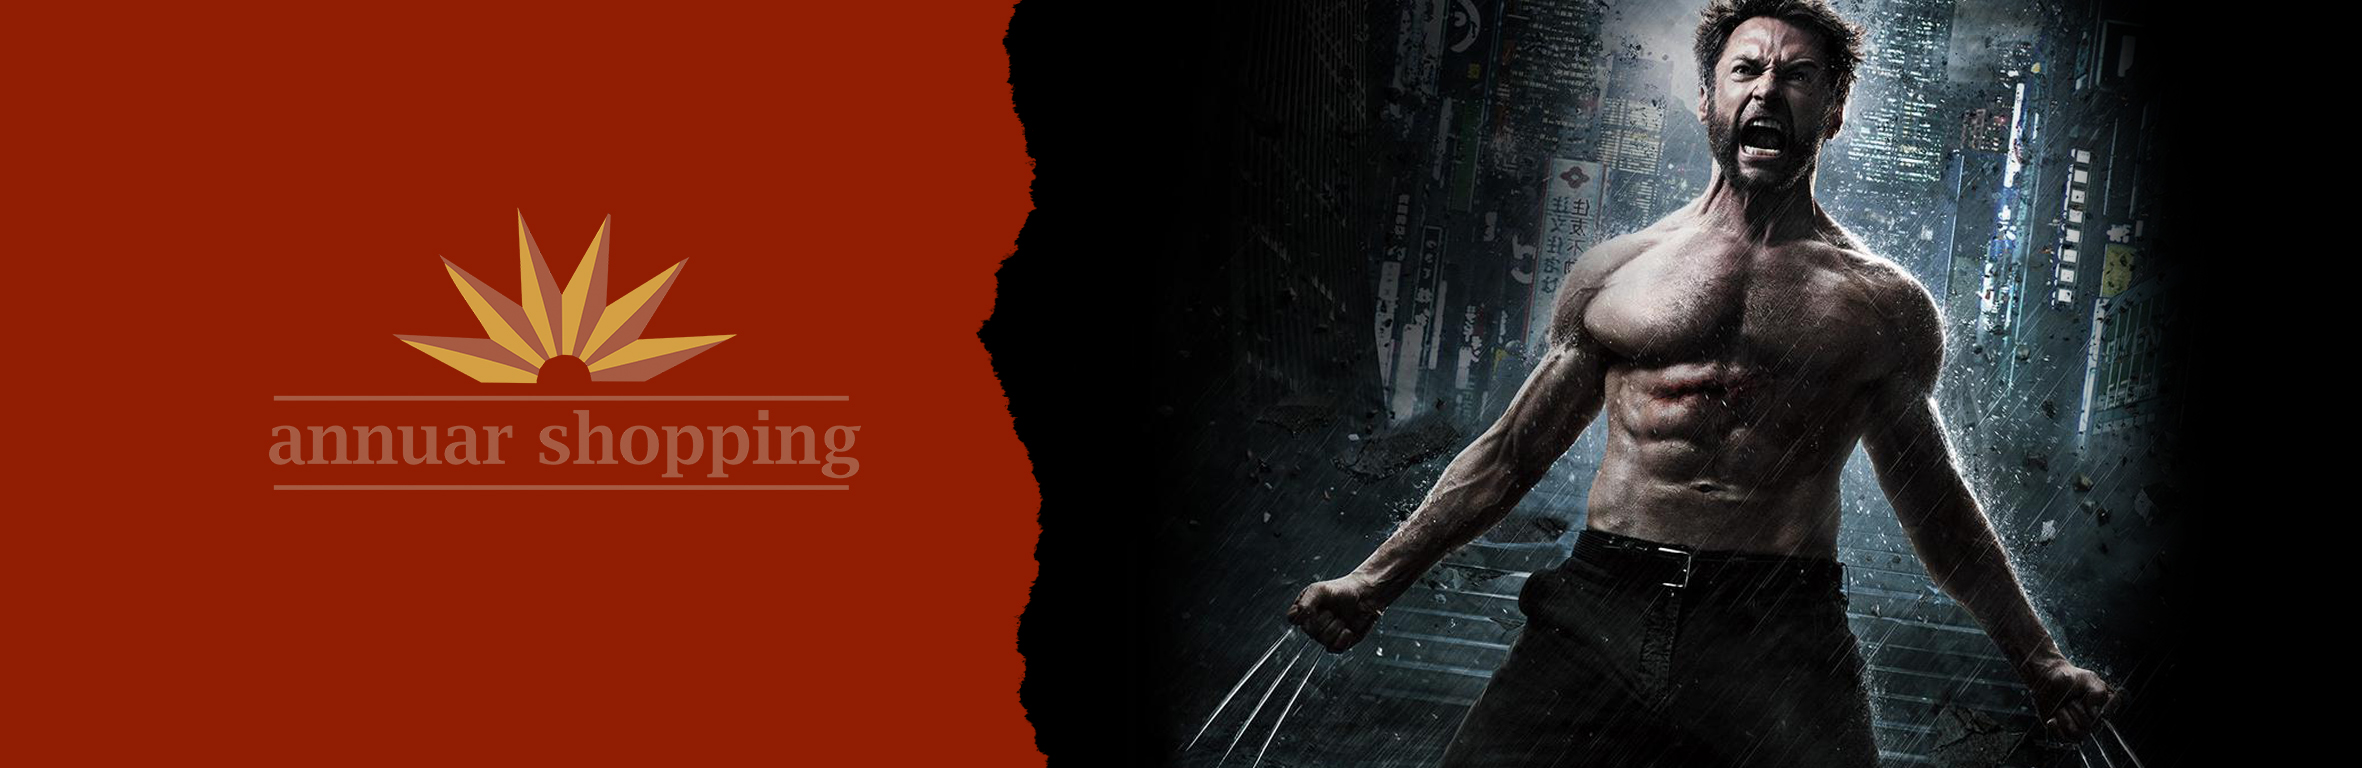
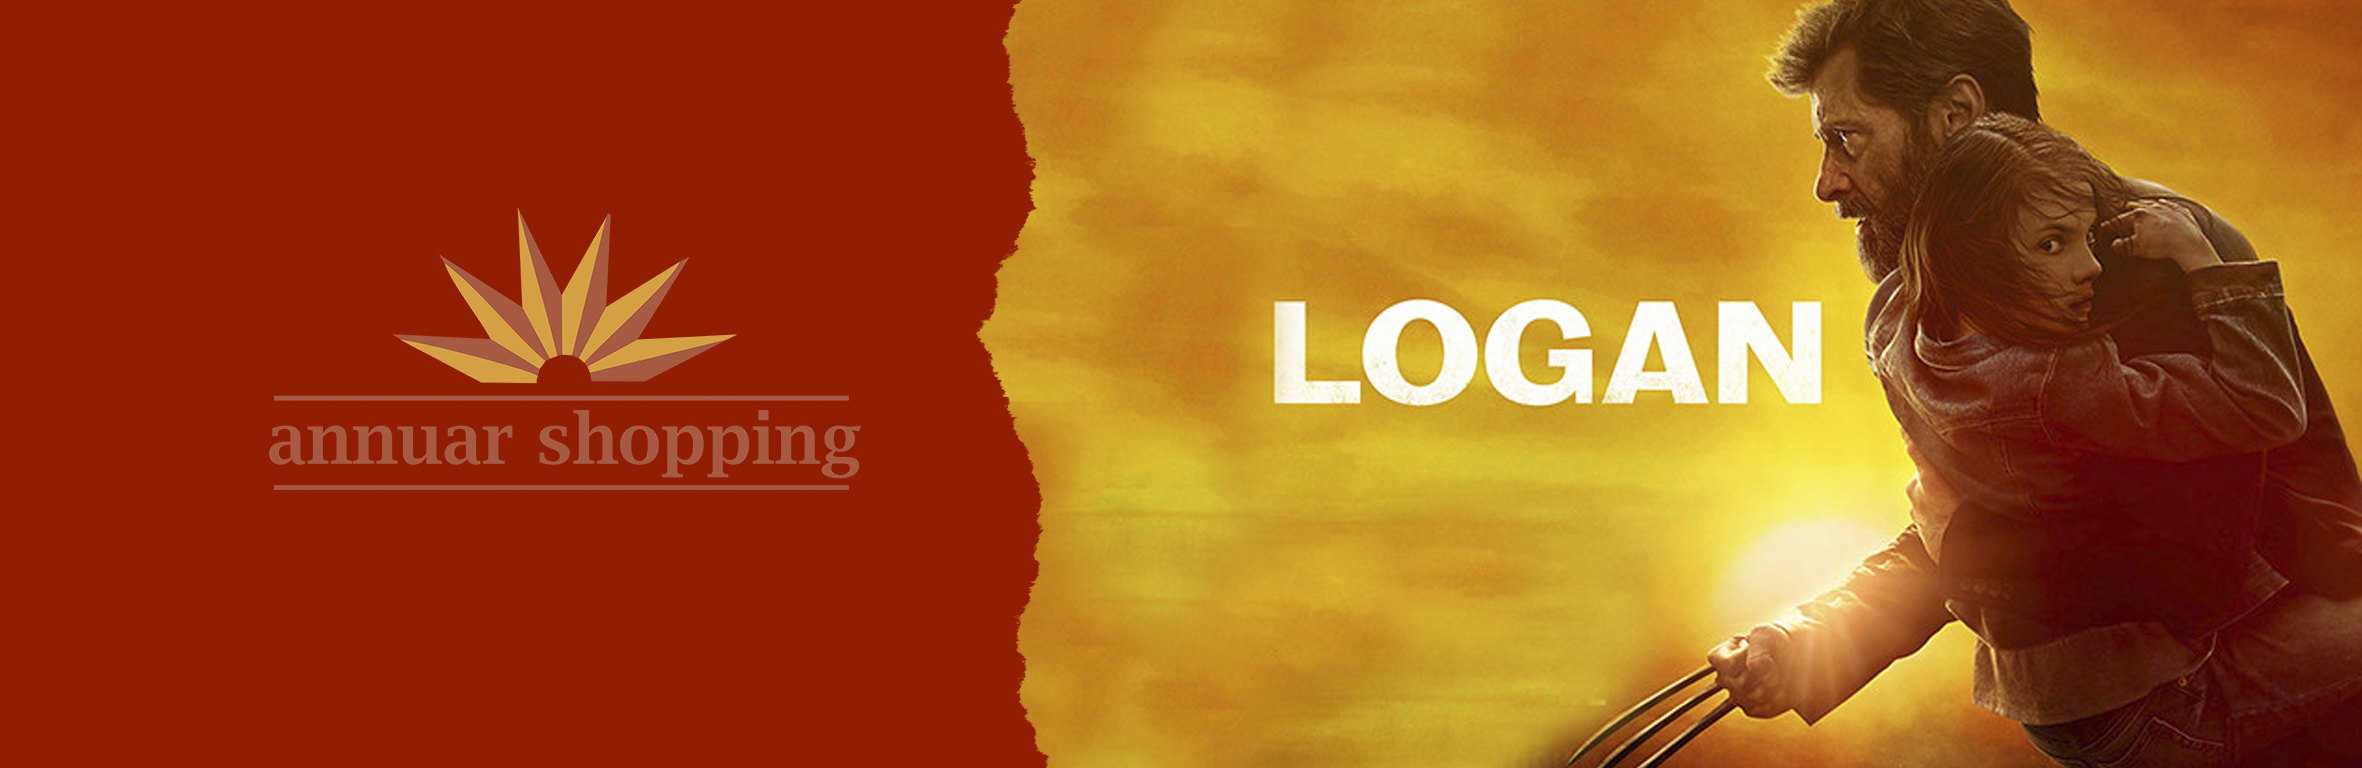
cambios

diff --git a/peliculas.html b/peliculas.html
@@ -7,14 +7,14 @@
     <link rel="stylesheet" type="text/css" media="screen" href="css/style.css"><!--link define los enlaces relacionados-->
     <link rel="stylesheet" type="text/css" media="screen" href="css/modal.css">
     <link rel="stylesheet" type="text/css" media="screen" href="css/imagen.css">
-    <title>Document</title>
+    <title>Peliculas</title>
 </head>
 <body>
     <header>
         <div class="cabecera">
         </div>
         <div>
-            <h1 class="titulo" >PORTAL DE CINE JUJUY</h1>
+            <h1 class="titulo" >CINE ANNUAR SHOPING</h1>
         </div>
     </header>
     <nav style="background-color: slategrey">
@@ -44,7 +44,7 @@
                 </ul>
             </li>
             <li>
-                <a href="peliculas.html">Pelicula</a>
+                <a href="peliculas.html">Peliculas</a>
             </li>
             <li>
                 <a href="#openModal">Iniciar Session</a>
@@ -56,106 +56,126 @@
         
         <!--esta seccion mostrara los diferentes servicios que se pueden encontrar
             se dividira la secion en 4 columnas diferentes, cada una aportara un servicio distinto-->
-        <section class="servicios">
-            <div class="serv">
-                <div style="float: left;">
-                    <img src="img/pelicula_1.jpg" alt="amor infinito" style="width: 70%;">
+            <section class="servicios">
+                <div class="serv">
+                    <div style="float: left;">
+                        <img src="img/pelicula_1.jpg" alt="Amor Infinito" style="width: 70%;">
+                    </div>
+                    <div>
+                        <h2>After Amor infinito</h2>
+                        <p>
+                            26 de agosto de 2022 en cines / 1h 35min / Drama, Romántico / Calificación 4/5
+                        </p>
+                        <p>
+                            Sinopsis de After: amor infinito: En la cuarta y última entrega de la serie AFTER, 
+                            Tessa ya no es la chica dulce era cuando conoció a Hardin. Entiende todas las emociones problemáticas que se esconden bajo el exterior de él, 
+                            y sabe que es la única que puede calmarlo cuando estalla. Él la necesita, pero ¿ella a lo necesita a él? A medida que salen a la luz más hechos del trágico pasado de Hardin, 
+                            él se vuelve más oscuro, y empuja con más fuerza a Tessa -y a todos los demás en su vida- a alejarse. 
+                            Tessa no está segura de poder salvarlo sin sacrificarse a sí misma. ¿Se mantendrán unidos o se separarán para siempre?
+                        </p>
+                        <p>
+                            Dirigida por Castille Landon
+                            Guion Anna Todd
+                            Reparto Josephine Langford, Hero Fiennes Tiffin, Louise Lombard
+                            Título original After Ever Happy
+                        </p>
+                        <button>Leer Más</button>
+                    </div>
                 </div>
-                <div>
-                    <h2>After Amor infinito</h2>
-                    <p>
-                        Sinopsis de After: amor infinito: En la cuarta y última entrega de la serie AFTER, 
-                        Tessa ya no es la chica dulce era cuando conoció a Hardin. Entiende todas las emociones problemáticas que se esconden bajo el exterior de él, 
-                        y sabe que es la única que puede calmarlo cuando estalla. Él la necesita, pero ¿ella a lo necesita a él? A medida que salen a la luz más hechos del trágico pasado de Hardin, 
-                        él se vuelve más oscuro, y empuja con más fuerza a Tessa -y a todos los demás en su vida- a alejarse. 
-                        Tessa no está segura de poder salvarlo sin sacrificarse a sí misma. ¿Se mantendrán unidos o se separarán para siempre?
-                    </p>
-                    <p>
-                        Una pareja debe decidir si continuar con su relación apasionada pero tóxica o hacer cambios dramáticos en sus vidas.
-                        4/5
-                        Dirigida por Castille Landon
-                        Guion Anna Todd
-                        Reparto Josephine Langford, Hero Fiennes Tiffin, Louise Lombard
-                        Título original After Ever Happy
-                        26 de agosto de 2022 en cines / 1h 35min / Drama, Romántico
-                    </p>
-                    <button>Leer Más</button>
+                <div class="serv">
+                    <div style="float: left;">
+                        <img src="img/pelicula_2.png" alt="Portada Asesino sin Memoria" style="width: 70%;">
+                    </div>
+                    <div>
+                        <h2>Asesino sin memoria</h2>
+                        <p>
+                            22 de julio de 2022 en cines / 1h 54min / Suspense, Acción / Calificación 3/5
+                        </p>
+                        <p>
+                            Alex, un asesino a sueldo, descubre que se ha convertido en un objetivo después de que se niega a completar un trabajo para una peligrosa organización criminal. 
+                            Con el sindicato del crimen y el FBI persiguiéndolo, Alex tiene las habilidades para mantenerse a la vanguardia, excepto por una cosa: está luchando con una pérdida de memoria severa que afecta todos sus movimientos. 
+                            Alex debe cuestionar cada una de sus acciones y en quién puede confiar en última instancia.
+                        </p>
+                        <p>
+                            Dirigida por Martin Campbell
+                            Guion Jef Geeraerts, Dario Scardapane
+                            Reparto Liam Neeson, Guy Pearce, Taj Atwal
+                            Título original Memory
+                        </p>    
+                        <button>Leer Más</button>
+                    </div>
                 </div>
-            </div>
-            <div class="serv">
-                <div style="float: left;">
-                    <img src="img/pelicula_2.png" alt="amor infinito" style="width: 70%;">
+                <div class="serv">
+                    <div style="float: left;">
+                        <img src="img/pelicula_3.png" alt="Portada El Conjuro" style="width: 70%;">
+                    </div>
+                    <div>
+                        <h2>El Conjuro 3</h2>
+                        <p>
+                            4 de junio de 2021 en cines / 1h 52min / Terror / Calificación 3.5/5
+                        </p>
+                        <p>
+                            Los investigadores paranormales Ed y Lorraine Warren se encuentran con lo que se convertiría en uno de los casos más sensacionales de sus archivos.
+                            La lucha por el alma de un niño los lleva más allá de todo lo que habían visto antes, 
+                            para marcar la primera vez en la historia de los Estados Unidos que un sospechoso de asesinato reclamaría posesión demoníaca como defensa.
+                        </p>
+                        <p>
+                            Dirigida por Michael Chaves
+                            Guion David Leslie Johnson-McGoldrick, James Wan
+                            Reparto Patrick Wilson, Vera Farmiga, Ruairi O'Connor
+                            Título original The Conjuring: The Devil Made Me Do It
+                        </p>
+                        <button>Leer Más</button>
+                    </div>
                 </div>
-                <div>
-                    <h2>Asesino sin memoria</h2>
-                    <p>
-                        Alex, un asesino a sueldo, descubre que se ha convertido en un objetivo después de que se niega a completar un trabajo para una peligrosa organización criminal. 
-                        Con el sindicato del crimen y el FBI persiguiéndolo, Alex tiene las habilidades para mantenerse a la vanguardia, excepto por una cosa: está luchando con una pérdida de memoria severa que afecta todos sus movimientos. 
-                        Alex debe cuestionar cada una de sus acciones y en quién puede confiar en última instancia.
-                    </p>
-                    <p>
-                        Director	Martin Campbell        
-                        Géneros	Acción, Crimen, Misterio, Suspense
-                        Actor	Antonio Jaramillo, Atanas Srebrev, Daniel De Bourg, Doug Rao, Guy Pearce
-                    </p>    
-                    <button>Leer Más</button>
+                <div class="serv">
+                    <div style="float: left;">
+                        <img src="img/pelicula_4.jpg" alt="Portada Logan" style="width: 70%;">
+                    </div>
+                    <div>
+                        <h2>Logan</h2>
+                        <p>
+                            3 de marzo de 2017 en cines / 2h 17min / Acción, Ciencia ficción / Calificación 3.5/5
+                        </p>
+                        <p>
+                            Han pasado los años y los mutantes están en declive. Logan, débil y cansado, 
+                            vive alejado de todos hasta que acepta una última misión de Charles Xavier: 
+                            la de proteger a una joven especial, de nombre Laura Kinney pero conocida como X-23, la última esperanza de la raza mutante.
+                        </p>
+                        <p>
+                            Dirigida por James Mangold
+                            Guion James Mangold, James Mangold
+                            Reparto Hugh Jackman, Patrick Stewart, Dafne Keen
+                        </p>
+                        <button>Leer Más</button>
+                    </div>
                 </div>
-            </div>
-            <div class="serv">
-                <div style="float: left;">
-                    <img src="img/pelicula_3.png" alt="amor infinito" style="width: 70%;">
+                <div class="serv">
+                    <div style="float: left;">
+                        <img src="img/pelicula_5.jpg" alt="Portada Piratas del Caribe" style="width: 70%;">
+                    </div>
+                    <div>
+                        <h2>Piratas del Caribe: La Venganza de Salazar</h2>
+                        <p>
+                            25 de mayo de 2017 en cines / 2h 09min / Aventura, Fantasía, Acción / Calificación 4/5
+                        </p>
+                        <p>
+                            El capitán Salazar comanda un ejército de piratas fantasma con el que pretende exterminar a todos los piratas vivos de la Tierra, 
+                            pero Jack Sparrow se opone a él y busca el Tridente de Poseidón, 
+                            un objeto mágico que permite a quien lo posee controlar los mares, 
+                            la única esperanza para detener a Salazar.
+                        </p>
+                        <p>
+                            Dirigida por Joachim Rønning, Espen Sandberg
+                            Guion Jeff Nathanson, Jeff Nathanson
+                            Reparto Johnny Depp, Javier Bardem, Brenton Thwaites
+                            Título original Pirates of the Caribbean: Dead Men Tell No Tales
+                        </p>
+                        <button>Leer Más</button>
+                    </div>
                 </div>
-                <div>
-                    <h2>El Conjuro 3</h2>
-                    <p>
-                        Los investigadores paranormales Ed y Lorraine Warren se encuentran con lo que se convertiría en uno de los casos más sensacionales de sus archivos.
-                        La lucha por el alma de un niño los lleva más allá de todo lo que habían visto antes, 
-                        para marcar la primera vez en la historia de los Estados Unidos que un sospechoso de asesinato reclamaría posesión demoníaca como defensa.
-                    </p>
-                    <p>
-                        Director
-                        David Waters, Jeffrey Wetzel, Joann Connolly, Jody Blose, Michael Chaves
-
-                        Actores
-                        Andrea Andrade, Ashley LeConte Campbell, Charlene Amoia, Chris Greene, Davis Osborne
-                    </p>
-                    <button>Leer Más</button>
-                </div>
-            </div>
-            <div class="serv">
-                <div style="float: left;">
-                    <img src="img/pelicula_4.jpg" alt="amor infinito" style="width: 50%;">
-                </div>
-                <div>
-                    <h2>Wolverine: La noche mas larga</h2>
-                    <p>
-                        Wolverine The Long Nigth: El conocido heroe del Universo Marvel , es puesto a prueba una vez mas cuando una fuerza de otra dimension amenaza la vida de todo el planeta,
-                         y Logan junto a otros heroes y villanos unen voluntades para combatir a los villanos ¿cual será el resultado de esta nueva aventura?
-                    </p>
-                    <p>
-                        
-                    </p>
-                    <button>Leer Más</button>
-                </div>
-            </div>
-            <div class="serv">
-                <div style="float: left;">
-                    <img src="img/pelicula_5.jpg" alt="amor infinito" style="width: 70%;">
-                </div>
-                <div>
-                    <h2>Sandman</h2>
-                    <p>
-                        El dios Morfeo (Sandman) ha sido capturado por unos brujos poderosos, y durante su cautiverio su reino entro en caos y la ruina, 
-                        pero un descuido de sus captores habre una esperanza para que vuelva a su reino y busque su venganza
-                    </p>
-                    <p>
-                        
-                    </p>
-                    <button>Leer Más</button>
-                </div>
-            </div>
-            
-        </section>
+                
+            </section>
     </div>
 
     <!--esta seccion se utilizara para crear una ventana de logeo de usuario

diff --git a/index.html b/index.html
@@ -7,14 +7,14 @@
   <link rel="stylesheet" type="text/css" media="screen" href="css/style.css"><!--link define los enlaces relacionados-->
   <link rel="stylesheet" type="text/css" media="screen" href="css/modal.css">
   <link rel="stylesheet" type="text/css" media="screen" href="css/imagen.css">
-  <title>Document</title>
+  <title>Index</title>
 </head>
 <body>
   <header>
       <div class="cabecera">
       </div>
       <div class="titulo">
-          <h1  >PORTAL DE CINE JUJUY</h1>
+          <h1  >CINE ANNUAR SHOPING</h1>
       </div>
   </header>
   <nav style="background-color: slategrey">
@@ -44,7 +44,7 @@
               </ul>
           </li>
           <li>
-              <a href="peliculas.html">Pelicula</a>
+              <a href="peliculas.html">Peliculas</a>
           </li>
           <li>
               <a href="#openModal">Iniciar Session</a>
